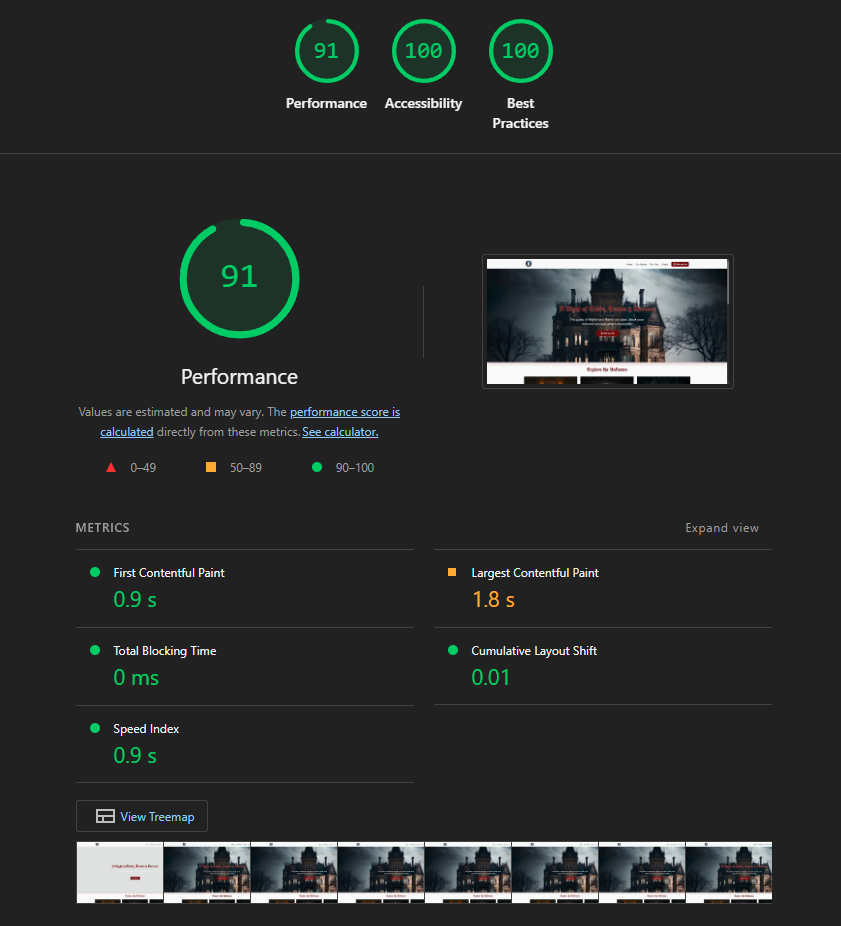
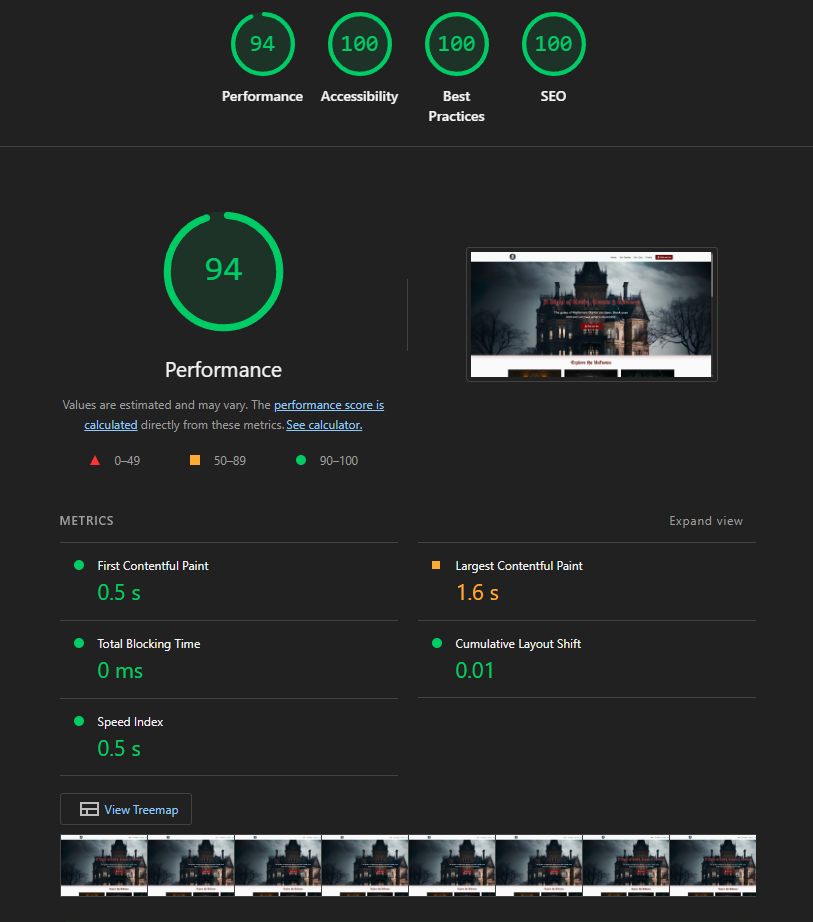
include seo within README.md lighthouse report

diff --git a/README.md b/README.md
@@ -215,7 +215,7 @@ To ensure Nightmare Manor is accessible and error-free, the following tools were
 
 - **HTML:** No critical errors; minor warnings addressed for improved semantics.
 - **CSS:** Passed validation with no major issues.
-- **Lighthouse:** Scores above 90 for Performance, 100 for Accessibility and 100 for Best Practices on Desktop & above 70 on mobile for performance. 
+- **Lighthouse:** Scores above 90 for Performance, 100 for Accessibility, 100 for SEO and 100 for Best Practices on Desktop & above 70 on mobile for performance. 
 </details>
 
 | ![](assets/readme-images/lighthouse-desktop.png) | ![](assets/readme-images/lighthouse-mobile.png) |
